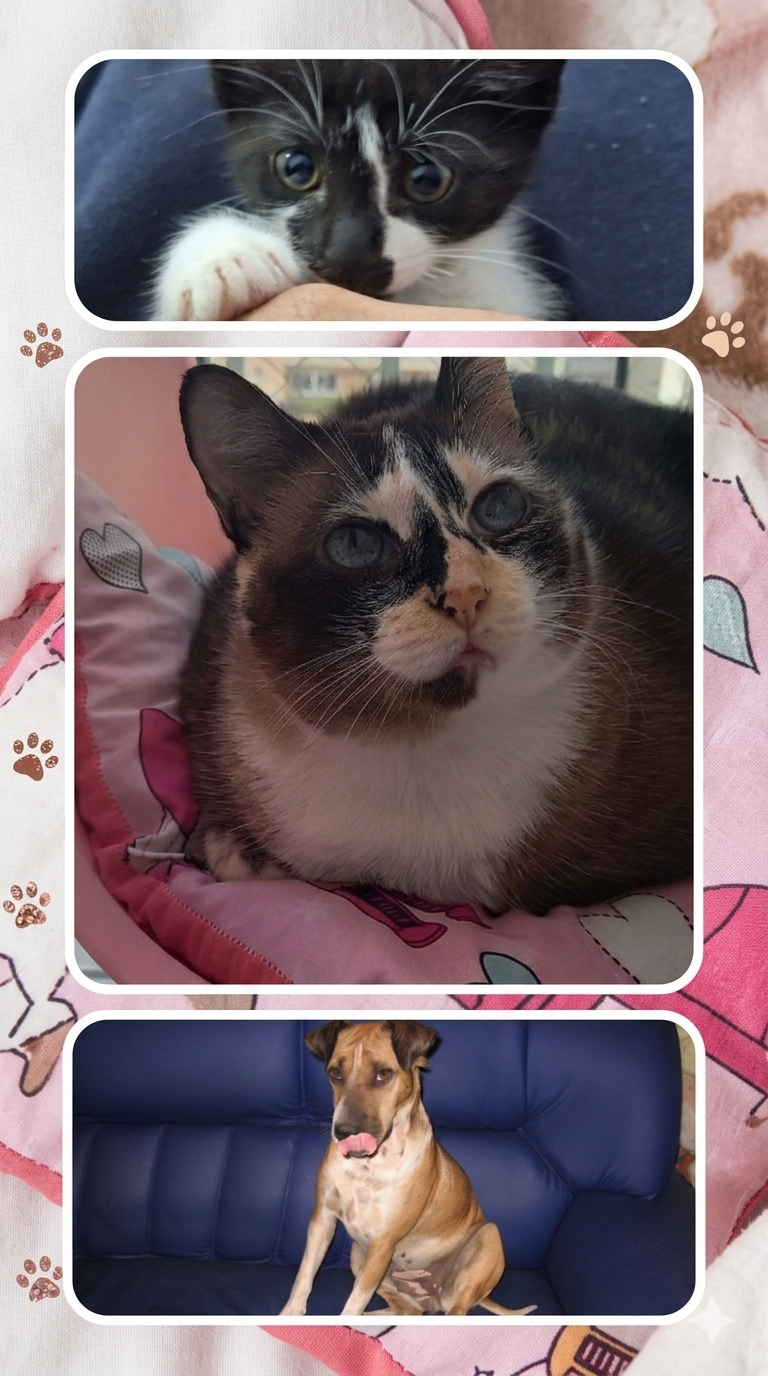
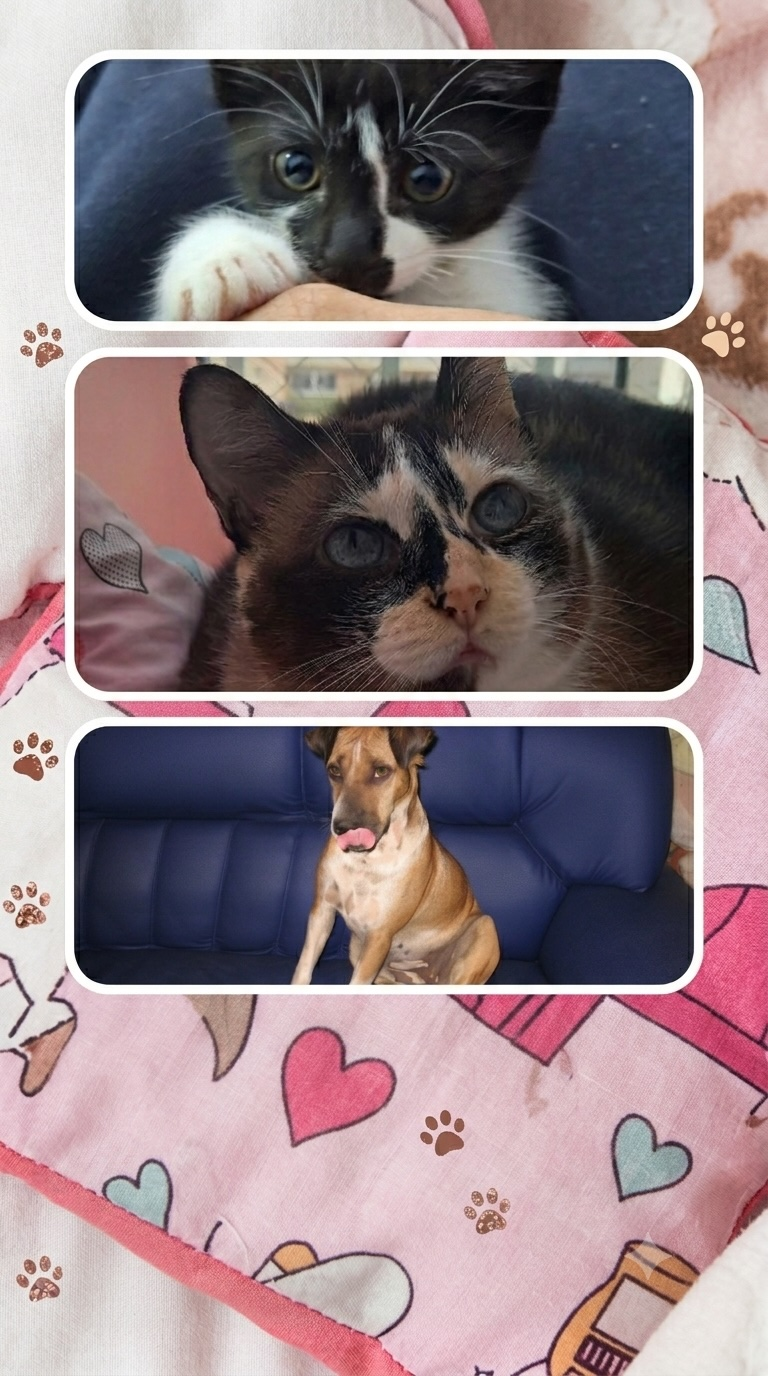
Ajuste nas fotos

diff --git a/index.html b/index.html
@@ -284,7 +284,7 @@ const STORY = [
   },
   {
     key:"casamento", dur:8500,
-    photo:"fotos/casamento_1.jpg",
+    photo:"fotos/casamento.jpg",
     grad:"linear-gradient(180deg, rgba(60,42,12,.1) 0%, rgba(40,28,10,.5) 50%, rgba(20,14,6,.96) 100%)",
     eyebrow:"O dia do Sim",
     date:"15 de junho de 2011",